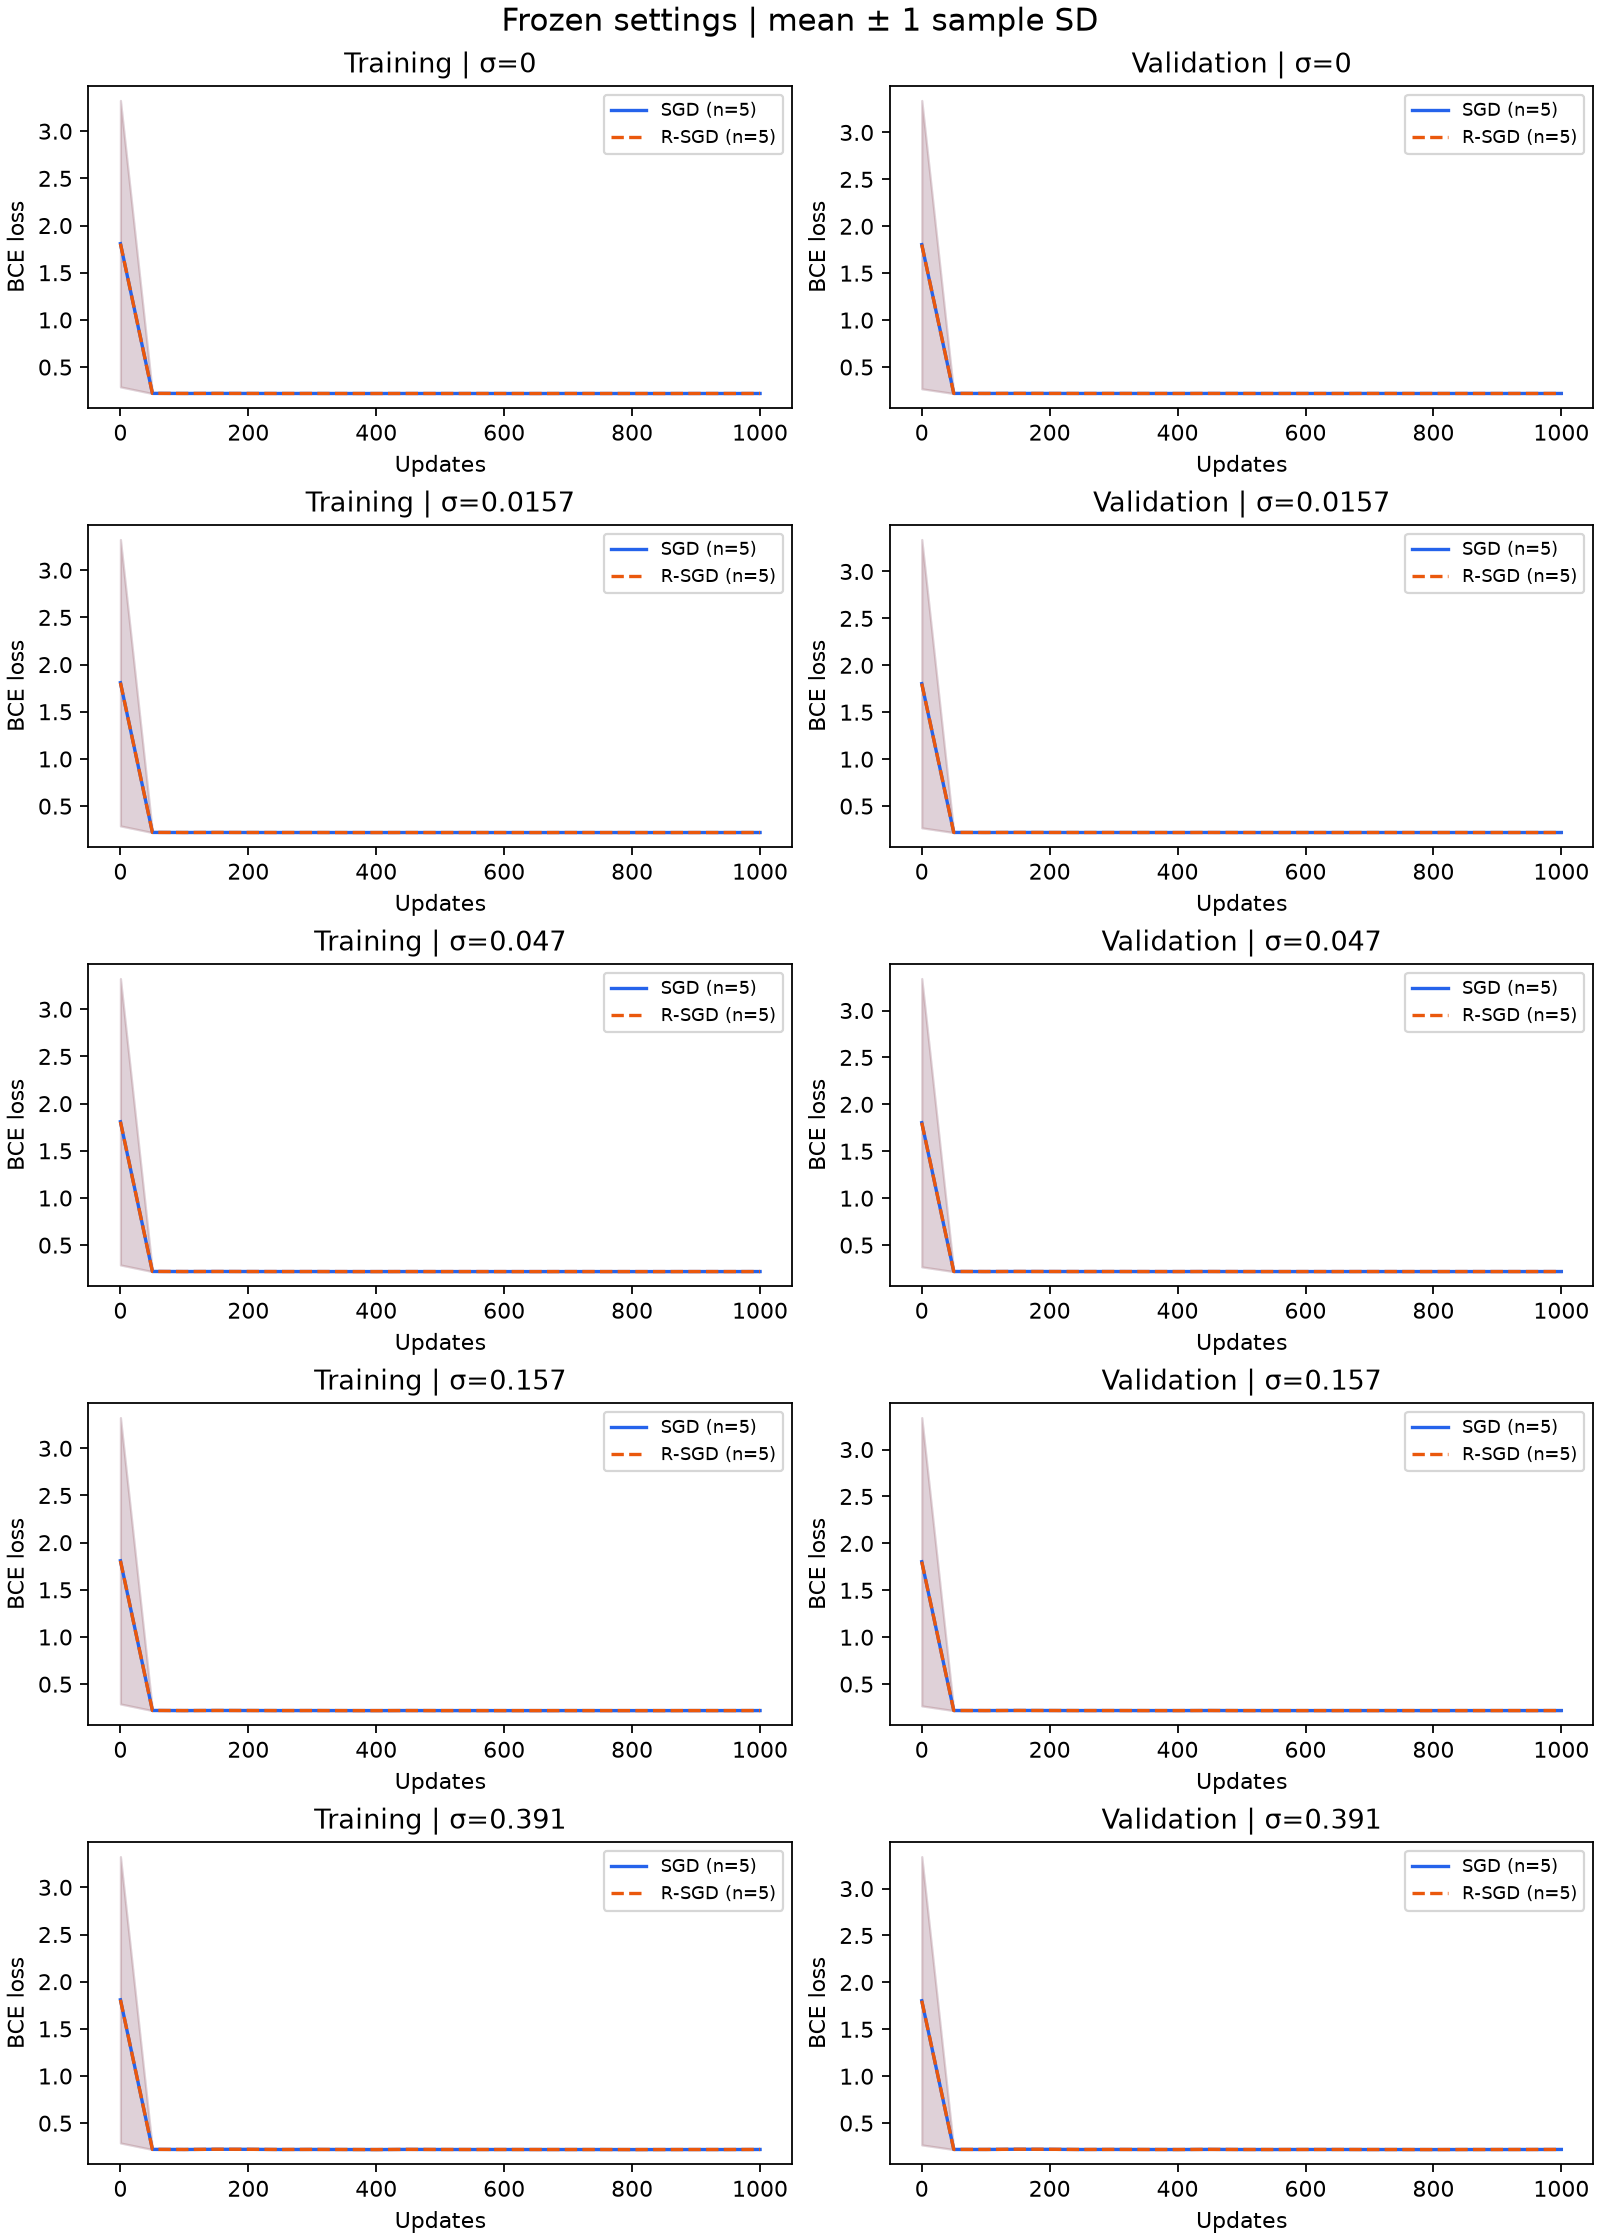
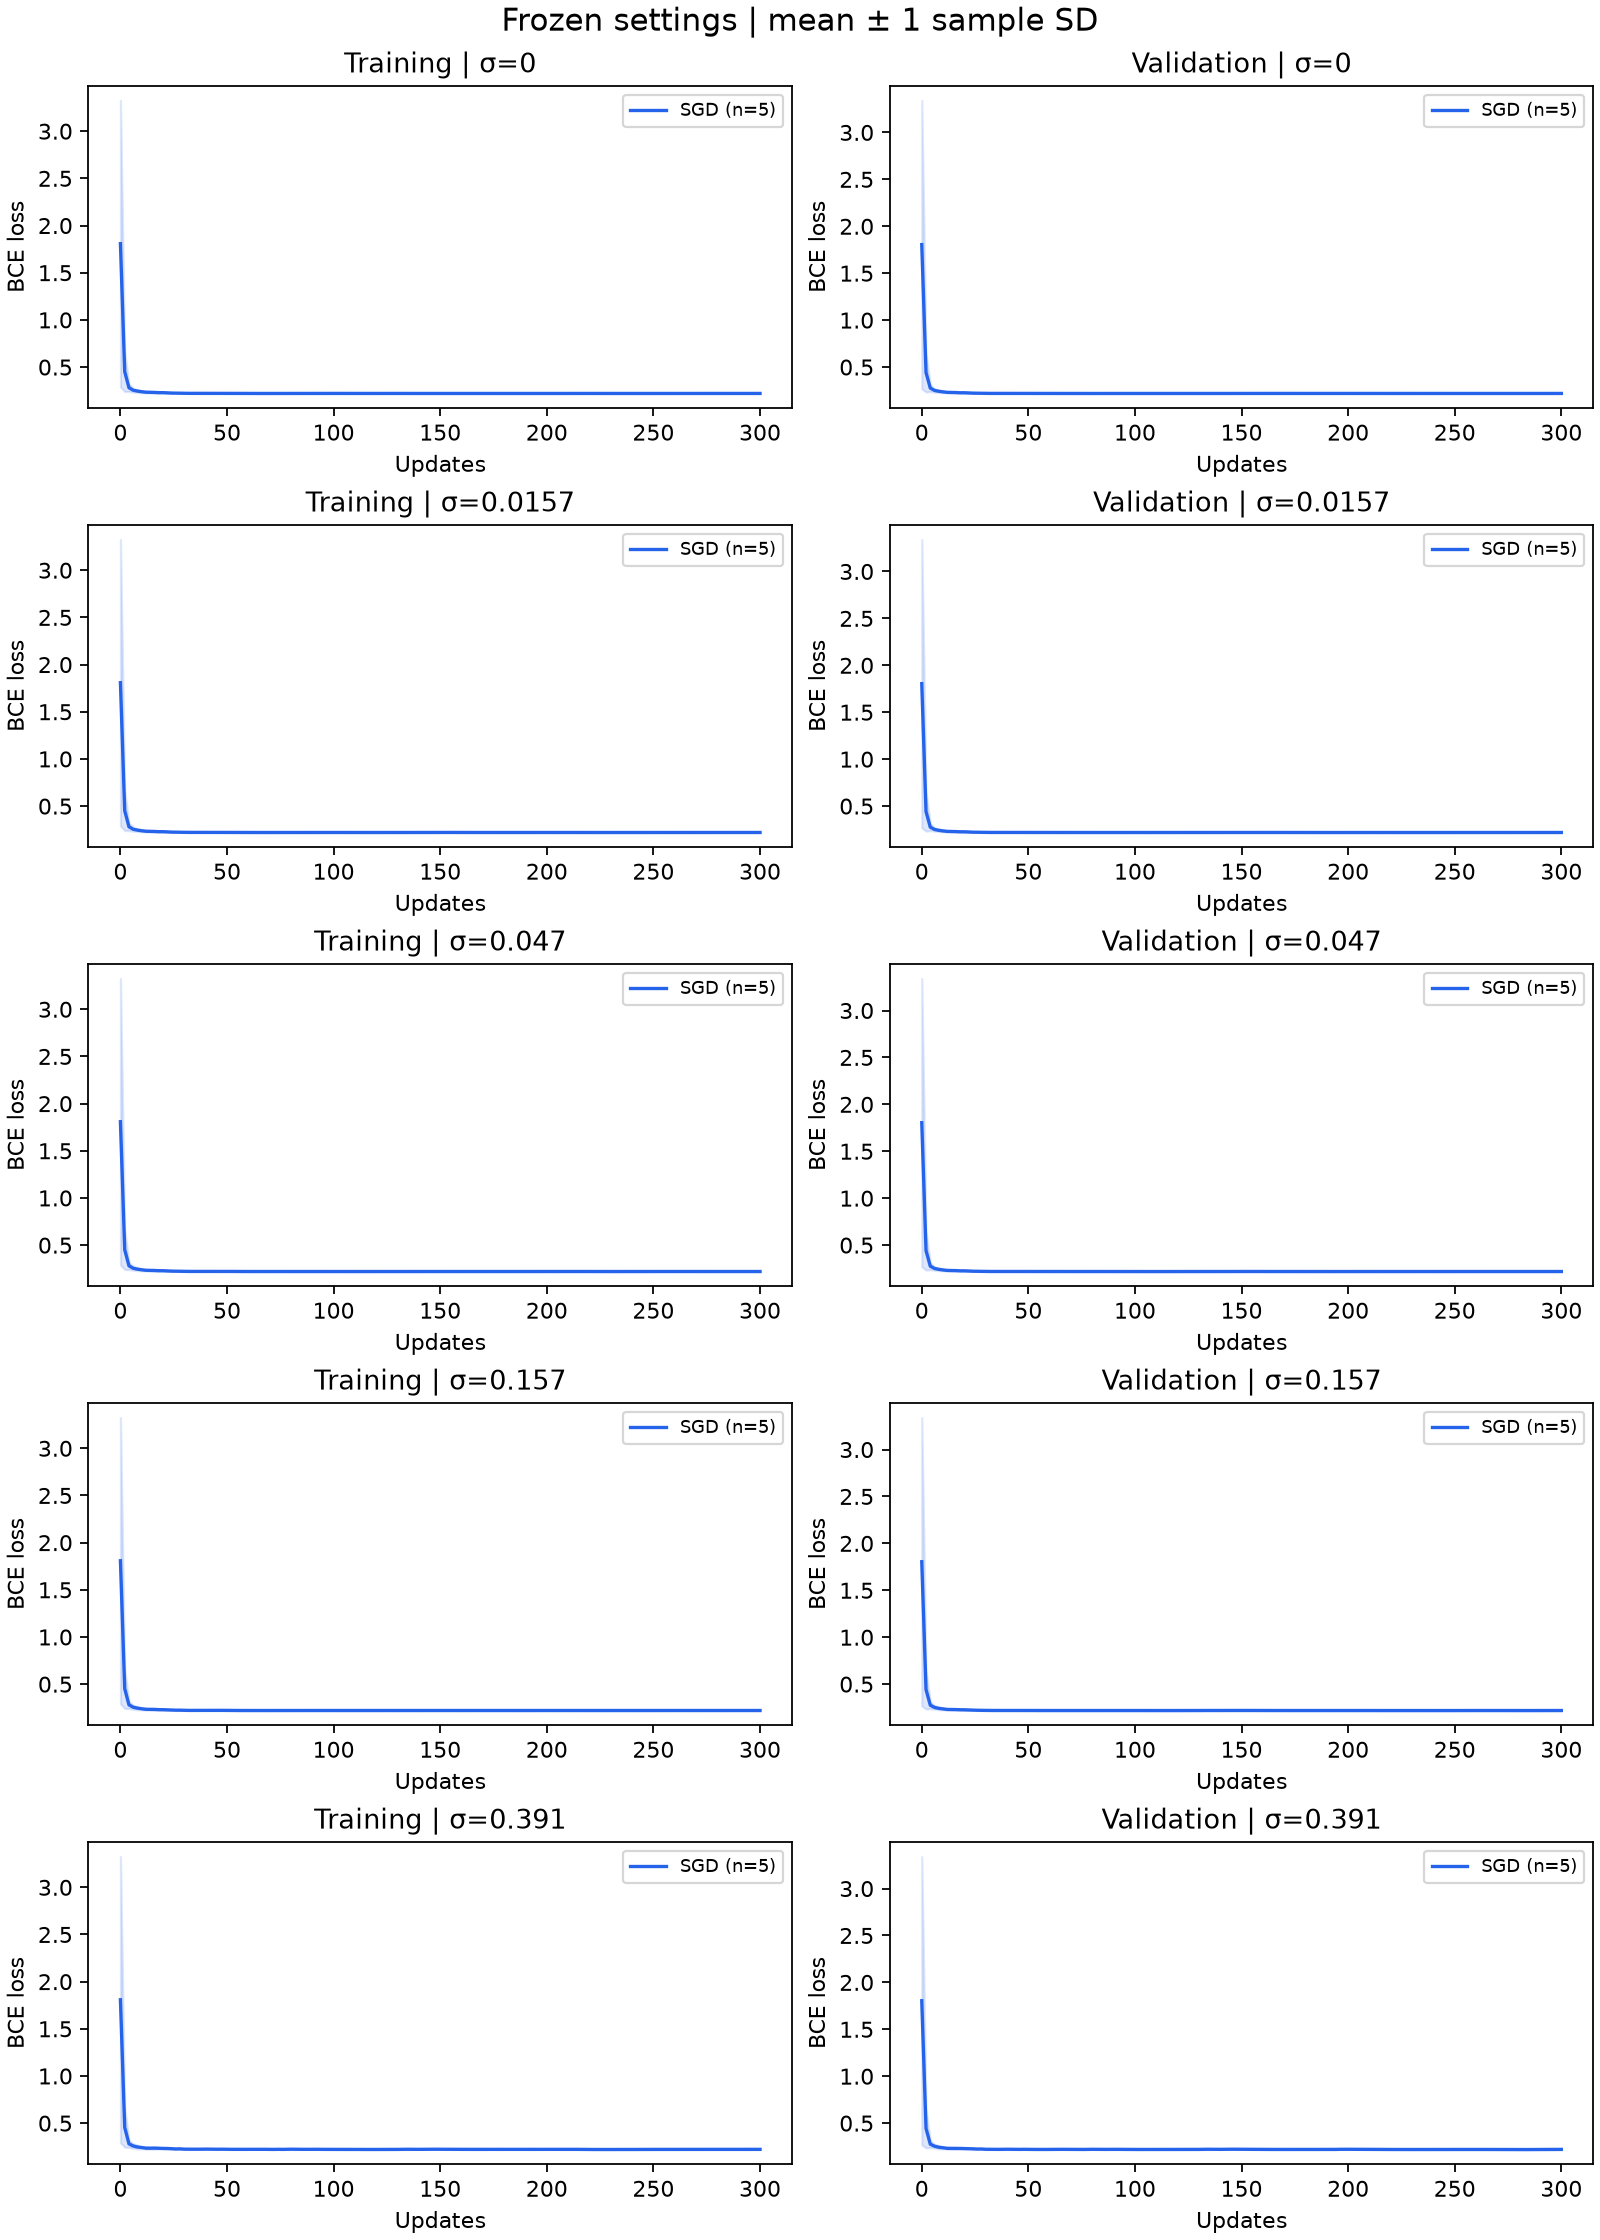
Structure report files.

diff --git a/report/experiment_desc.tex b/report/experiment_desc.tex
@@ -1,3 +1,6 @@
+\section{General Experimental Setup}
+\label{sec:general_setup}
+
 In this project, we compare standard Stochastic Gradient Descent (SGD) against Robust SGD (R-SGD) under gradient uncertainty. The comparison is conducted across two distinct tasks: (i) a single-layer logistic regression on linearly separable Gaussian data, and (ii) a small two-layer neural network (MLP) on a noisy semicircles dataset. In both cases, the models are trained to minimize the mean binary cross-entropy loss without additional regularization.
 
 \subsection{Hyperparameter Tuning and Freezing}
@@ -23,4 +26,8 @@ where \(u_i(\theta_k) = \nabla_\theta \ell(t_\theta(a_i), y_i)\) is the true per
 Because the raw gradient magnitudes differ between the two tasks, the noise levels were chosen relative to the empirical scale of the gradients. We defined a base noise scale \(\sigma_{\text{scale}}\) (measured during a warmup phase) and evaluated the optimizers at multipliers \(\sigma \in \{0, 0.1, 0.3, 1.0, 2.5\} \cdot \sigma_{\text{scale}}\). The case \(\sigma=0\) serves as the natural baseline, representing only the inherent stochasticity of mini-batch sampling. 
 
 \subsection{Evaluation Protocol}
-For each noise level and each of the 5 evaluation seeds, we trained the models from matched initializations. To ensure a fair comparison, both SGD and R-SGD were exposed to the exact same absolute noise levels and mini-batch sequences within a given seed. The performance was evaluated on uncorrupted validation and test data, reporting the final training loss, test loss, test accuracy, runtime, and zero-step frequency.
+For each noise level and each evaluation seed, we trained the models from matched initializations. 
+To ensure a fair comparison, both SGD and R-SGD were exposed to the exact same absolute noise 
+levels and mini-batch sequences within a given seed. The performance was evaluated on uncorrupted 
+validation and test data, reporting the final training loss, test loss, test accuracy, runtime, 
+and zero-step frequency.

diff --git a/report/math.tex b/report/math.tex
@@ -1,3 +1,5 @@
+\section{Derivation and interpretation}
+
 \subsection{(a)}
 For $S \succ 0$, consider the robust linear problem $\min_{x \in \mathcal{X}} \max_{c = \mu + S^{1/2}u, \|u\| \leq \rho} c^T x$, derive the inner maximum and show a maximizer when $x \neq 0$. Explain how $x, \mu$ become $d, g_k$ in a local gradient model.
 
@@ -49,6 +51,7 @@ However, this doesn't imply that the true gradient vanishes: $d_k = 0 \not \Righ
 \subsection{(d)}
 Derive the optimality condition for a nonzero robust step: $$g_k + \rho \frac{S_k d_k}{\sqrt{d^T_k S_k d_k}} + \alpha^{-1}_k d_k = 0.$$ For $S_k = s I$ with $s > 0$ and $g_k \neq 0$, show that this simplifies to $d_k = -\alpha_k (1 - \rho \sqrt{s} / \|g_k\|)_+ g_k$, where $(a)_+ = \max\{a, 0\}$. Also address the case $g_k = 0$. Explain how isotropic and anisotropic uncertainty can affect the magnitude and direction of the update.
 \subsubsection{Solution}
+\label{sec:isotropic_noise}
 For a nonzero step, the robust objective is differentiable. Its gradient is
 $$\nabla F(d) = g_k + \rho \frac{S_k d}{\sqrt{d^T S_k d}} + \frac{d}{\alpha_k}$$
 Therefore, the first-order optimality condition is

diff --git a/report/main.tex b/report/main.tex
@@ -1,25 +1,29 @@
 \documentclass[a4paper, 12pt]{article} 
-\usepackage{graphicx} % Required for inserting images
+\usepackage[left=2cm, right=2cm, top=2cm, bottom=2cm]{geometry}
+\usepackage{graphicx}
 \usepackage{amsmath}
 \usepackage{booktabs}
+\usepackage[colorlinks=true, 
+            linkcolor=blue,   
+            urlcolor=blue,    
+            citecolor=blue]{hyperref}
 
 \title{SGD vs RSGD under gradient uncertainty}
 \date{November 2026}
-\author{}
+\author{Rushan Khamatyarov, Sultan Akhmetov, Anna Chistyakova}
 \begin{document}
 
 \maketitle
 
-\section{Derivation and interpretation}
+\input{team.tex}
 
 \input{math.tex}
 
-\section{Implementation and numerical checks}
+\input{optimizer_implementation.tex}
 
-\section{General Experimental Setup}
-\label{sec:general_setup}
 \input{experiment_desc.tex}
 
-\section{Simulation 1: Logistic Regression}
 \input{simulation1.tex}
+
+\input{discussion.tex}
 \end{document}

diff --git a/report/optimizer_implementation.tex b/report/optimizer_implementation.tex
@@ -1,0 +1,1 @@
+\section{Implementation and numerical checks}
